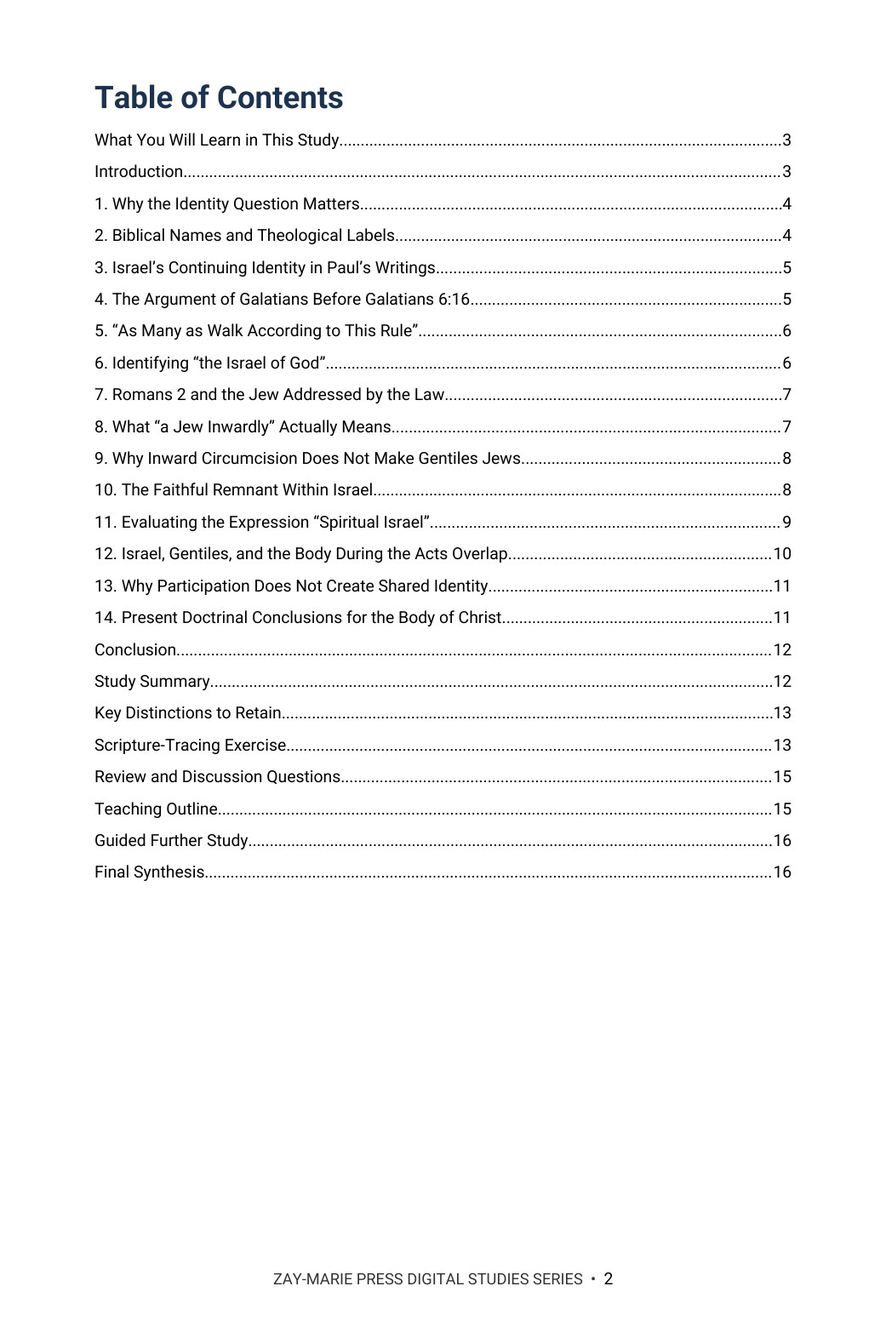
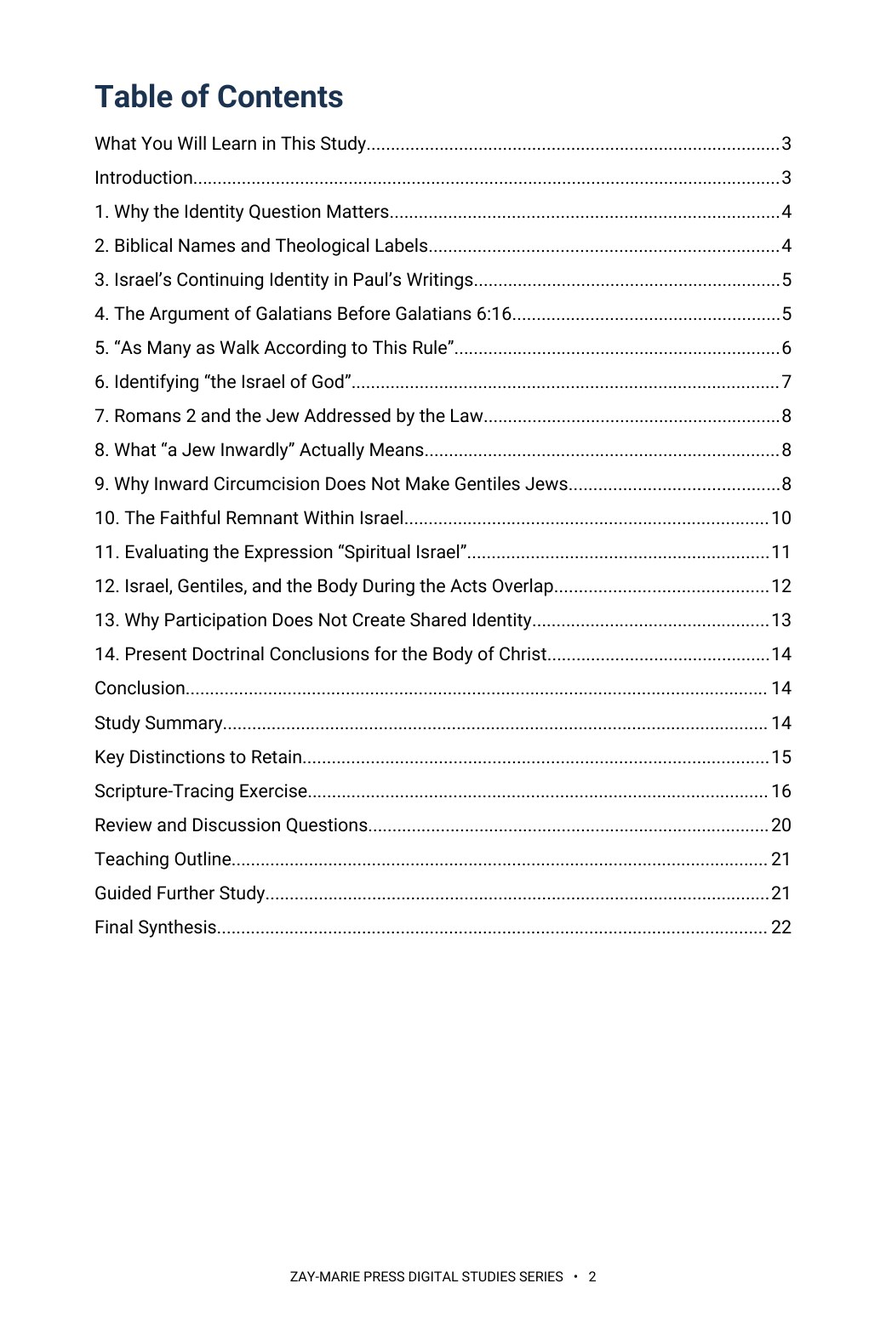
Study 35: page count 22, rebuilt preview pages and trackers for Roboto 10 pt build on current page
Claude-Session: https://claude.ai/code/session_01HC7bs9KYP2scp4hCL6DkTp

Changed region(s): [[0.0922, 0.0615, 0.6455, 0.7068], [0.8607, 0.0922, 0.8915, 0.7068], [0.3074, 0.9526, 0.6455, 0.9834]]

diff --git a/study-35-who-is-the-israel-of-god.html b/study-35-who-is-the-israel-of-god.html
@@ -2,12 +2,12 @@
 <html lang="en"><head><meta charset="utf-8"><meta name="viewport" content="width=device-width,initial-scale=1"><title>Who Is the Israel of God? | Zay-Marie Press</title><meta name="description" content="Examine Galatians 6:16, Romans 2:28–29, and the expression spiritual Israel while preserving the biblical distinctions among Israel, Gentiles, the remnant, and the Body of Christ."><link rel="stylesheet" href="styles.css?v=20260921-4"><link rel="icon" type="image/png" href="assets/zay-marie-press-favicon.png"><style>
 .study-detail-page{background:#fff;color:#252525}.detail-hero{background:linear-gradient(135deg,#f8f5ec,#e3ece2);padding:58px 0}.detail-hero-grid{display:grid;grid-template-columns:minmax(250px,.72fr) minmax(0,1.28fr);gap:58px;align-items:center}.detail-cover{max-width:390px;margin:auto}.detail-cover img{display:block;width:100%;height:auto;box-shadow:0 14px 36px rgba(8,45,69,.18)}.detail-hero h1{font-size:clamp(2.7rem,5vw,4.7rem);line-height:1.02;margin:8px 0 10px;color:#143823}.detail-subtitle{font-family:Georgia,serif;font-size:1.35rem;font-weight:700;color:#082d45;margin:0 0 7px}.detail-kicker{font-family:Georgia,serif;font-style:italic;font-size:1.05rem;color:#4a4a44;margin:0 0 22px}.detail-copy{font-size:1.08rem;line-height:1.65;max-width:760px}.detail-buyline{display:flex;align-items:center;gap:18px;flex-wrap:wrap;margin-top:25px}.detail-price{font-family:Georgia,serif;font-size:2rem;font-weight:700;color:#143823}.detail-format,.preview-card .page-no{font-family:Arial,sans-serif;font-size:.76rem;font-weight:700;letter-spacing:.1em;text-transform:uppercase;color:#176b3a}.detail-button{display:inline-block;background:#176b3a;color:#fff;padding:13px 22px;font-family:Arial,sans-serif;font-size:.8rem;font-weight:700;letter-spacing:.07em;text-transform:uppercase}.detail-button.pending{opacity:.72;cursor:default}.detail-section{padding:66px 0}.detail-section.soft{background:#f6f7f2}.detail-section.cream{background:#faf8f2}.detail-section h2{color:#143823;margin:6px 0 18px;font-size:clamp(2rem,3.4vw,3rem)}.detail-section .lead{max-width:920px;font-size:1.1rem;line-height:1.62}.study-distinction{max-width:920px;margin-top:28px;margin-bottom:28px;padding:26px 28px;background:#fff;border:1px solid #d8d1bf;border-left:4px solid #b8871c}.study-distinction h3{margin:0 0 10px;color:#143823}.study-distinction p{margin:0 0 14px;line-height:1.62}.study-distinction a{font-family:Arial,sans-serif;font-weight:700;color:#176b3a;text-decoration:none}.study-points{display:grid;grid-template-columns:repeat(3,1fr);gap:18px;margin-top:28px;margin-bottom:28px}.study-point,.scripture-card,.preview-card,.include-item{background:#fff;border:1px solid var(--line);text-align:left}.study-point{border-top:3px solid #176b3a;padding:22px}.study-point h3{color:#143823;margin:0 0 8px;font-size:1.2rem}.study-point p,.scripture-card p,.preview-card p,.include-item p{margin:0;line-height:1.55}.scripture-grid{display:grid;grid-template-columns:repeat(4,1fr);gap:14px;margin-top:24px;margin-bottom:24px}.scripture-card{padding:22px 20px;color:#143823}.scripture-card h3{margin:0 0 9px;font-family:Georgia,serif;font-size:1rem;line-height:1.35}.scripture-card p{font-size:.94rem;color:#45453f}.excerpt{max-width:900px;margin:28px auto;border-left:4px solid #b8871c;padding:10px 0 10px 28px}.excerpt blockquote{font-family:Georgia,serif;font-size:clamp(1.45rem,2.5vw,2rem);line-height:1.45;color:#143823;margin:0 0 16px}.excerpt p{line-height:1.6;margin:0}.preview-grid{display:grid;grid-template-columns:repeat(2,1fr);gap:20px;margin-top:28px;margin-bottom:28px}.preview-card{padding:18px;min-height:210px;box-shadow:0 7px 20px rgba(20,40,25,.05)}.preview-image-link{display:block;margin:0 0 18px}.preview-image-link img{display:block;width:100%;height:auto;border:1px solid #d8d1bf;box-shadow:0 8px 22px rgba(20,40,25,.1);transition:transform .18s ease,box-shadow .18s ease}.preview-image-link:hover img{transform:translateY(-2px);box-shadow:0 11px 28px rgba(20,40,25,.16)}.preview-card h3{color:#143823;margin:8px 0 10px}.preview-instruction{margin:10px 0 0;font-family:Arial,sans-serif;font-size:.78rem;letter-spacing:.04em;color:#5b5b55}.includes-grid{display:grid;grid-template-columns:repeat(4,1fr);gap:14px;margin-top:26px}.include-item{padding:22px 20px;color:#143823}.include-item h3{margin:0 0 9px;font-family:Arial,sans-serif;font-size:.86rem;line-height:1.35;letter-spacing:.02em}.include-item p{font-size:.94rem;color:#45453f}.final-buy{background:#082d45;color:#fff;border-top:4px solid #b8871c;padding:42px 48px;display:grid;grid-template-columns:1fr auto;gap:36px;align-items:center}.final-buy .eyebrow,.final-buy h2,.final-buy .detail-price{color:#fff}.final-buy h2{margin:7px 0 6px}.final-buy p{margin:0}.final-offer{text-align:center}.back-link{display:inline-block;margin-top:18px;color:#143823;font-family:Arial,sans-serif;font-weight:700;text-decoration:none}.preview-lightbox{position:fixed;inset:0;z-index:10000;display:none;align-items:flex-start;justify-content:center;background:rgba(8,22,16,.88);padding:24px;overflow:auto}.preview-lightbox.open{display:flex}.preview-lightbox img{display:block;width:auto;height:auto;max-width:none;box-shadow:0 18px 55px rgba(0,0,0,.4);background:#fff}.preview-lightbox-close{position:fixed;top:18px;right:24px;z-index:10001;width:46px;height:46px;border:1px solid rgba(255,255,255,.65);border-radius:50%;background:rgba(0,0,0,.55);color:#fff;font:32px/1 Arial,sans-serif;cursor:pointer}@media(max-width:900px){.detail-hero-grid{grid-template-columns:1fr;gap:34px}.detail-cover{max-width:330px}.study-points{grid-template-columns:repeat(2,1fr)}.scripture-grid,.includes-grid{grid-template-columns:repeat(2,1fr)}.preview-grid,.final-buy{grid-template-columns:1fr}.final-offer{text-align:left}}@media(max-width:560px){.detail-hero{padding:42px 0}.detail-section{padding:50px 0}.study-points,.scripture-grid,.includes-grid{grid-template-columns:1fr}.final-buy{padding:32px 24px}.detail-buyline{align-items:flex-start;flex-direction:column;gap:8px}.preview-lightbox{padding:58px 10px 24px}.preview-lightbox img{width:100%;max-width:100%;height:auto}}</style></head><body class="study-detail-page">
 <header class="site-header"><div class="wrap nav"><a class="logo" href="index.html" aria-label="Zay-Marie Press home"><img src="assets/zay-marie-press-logo-hq.png" alt="Zay-Marie Press" width="420" height="238"></a><button class="menu-toggle" type="button" aria-expanded="false" aria-controls="primary-nav">MENU</button><nav aria-label="Primary navigation" class="primary-nav" id="primary-nav"><a href="index.html">HOME</a><a href="books.html">BOOKS</a><a href="series.html">SERIES</a><a class="active" aria-current="page" href="digital-studies.html">DIGITAL STUDIES</a><a href="biblical-hermeneutics-course.html">COURSE</a><a href="about.html">ABOUT</a><a href="resources.html">RESOURCES</a><a href="contact.html">CONTACT</a></nav></div></header><main>
-<section class="detail-hero"><div class="wrap detail-hero-grid"><div class="detail-cover"><picture><source srcset="assets/study-35-cover.webp" type="image/webp"><img src="assets/study-35-cover.jpg" alt="Who Is the Israel of God? cover"></picture></div><div><div class="eyebrow">STUDY 35 · DIGITAL STUDY</div><h1>Who Is the Israel of God?</h1><p class="detail-subtitle">Spiritual Israel, the Jew Inwardly, and the Boundaries of Biblical Identity</p><p class="detail-kicker">A focused examination of Galatians 6:16, Romans 2:28–29, and the categories Paul continues to distinguish</p><p class="detail-copy">Do “the Israel of God,” “a Jew inwardly,” and the theological label “spiritual Israel” identify the Body of Christ as Israel? These expressions are often treated as interchangeable even though only the first two appear in Scripture and arise in different arguments.</p><p class="detail-copy">This study follows the grammar, recipients, context, and programmatic setting of the principal proof texts. It distinguishes Israel, Gentile participation in Israel’s blessing, and the Body of Christ, without transferring Israel’s corporate identity or prophetic promises.</p><div class="detail-buyline"><span class="detail-price">$5.99</span><span class="detail-format">Digital PDF · 16 Pages</span><span class="detail-button pending" aria-disabled="true">Checkout Coming Soon</span></div></div></div></section>
+<section class="detail-hero"><div class="wrap detail-hero-grid"><div class="detail-cover"><picture><source srcset="assets/study-35-cover.webp" type="image/webp"><img src="assets/study-35-cover.jpg" alt="Who Is the Israel of God? cover"></picture></div><div><div class="eyebrow">STUDY 35 · DIGITAL STUDY</div><h1>Who Is the Israel of God?</h1><p class="detail-subtitle">Spiritual Israel, the Jew Inwardly, and the Boundaries of Biblical Identity</p><p class="detail-kicker">A focused examination of Galatians 6:16, Romans 2:28–29, and the categories Paul continues to distinguish</p><p class="detail-copy">Do “the Israel of God,” “a Jew inwardly,” and the theological label “spiritual Israel” identify the Body of Christ as Israel? These expressions are often treated as interchangeable even though only the first two appear in Scripture and arise in different arguments.</p><p class="detail-copy">This study follows the grammar, recipients, context, and programmatic setting of the principal proof texts. It distinguishes Israel, Gentile participation in Israel’s blessing, and the Body of Christ, without transferring Israel’s corporate identity or prophetic promises.</p><div class="detail-buyline"><span class="detail-price">$5.99</span><span class="detail-format">Digital PDF · 22 Pages</span><span class="detail-button pending" aria-disabled="true">Checkout Coming Soon</span></div></div></div></section>
 <section class="detail-section"><div class="wrap"><div class="eyebrow">ABOUT THIS STUDY</div><h2>Participation Does Not Establish Shared Identity</h2><p class="lead">Paul recognizes Israel, Gentiles, and the Body of Christ without making those categories interchangeable. Faith and inward spiritual reality matter profoundly, but neither ethnic descent alone nor participation in grace settles the corporate identity question.</p><p class="lead">The study therefore examines each expression separately. Galatians 6:16 must be read within Galatians; Romans 2:28–29 within Paul’s address to the Jew and the law; and “spiritual Israel” as a later theological label that must be tested rather than treated as inspired terminology.</p><p class="lead">This is not a study of the broad Israel–Body distinction itself, which Study 4 establishes across every point of contrast, nor of Paul’s threefold categories in 1 Corinthians 10:32, which Study 36 works out on its own terms, nor of Paul’s uses of Abraham’s seed, which Study 40 traces across Romans and Galatians. Its task is narrower: to test each disputed identity expression — Galatians 6:16, Romans 2:28–29, “spiritual Israel” — within its own passage, rather than letting one debated phrase govern how the others are read.</p><div class="study-distinction"><h3>How These Studies Relate</h3><p>Study 35 tests the expressions ‘Israel of God’ and ‘a Jew inwardly’ and the later label ‘spiritual Israel’ in context.</p><p><a href="study-04-israel-and-the-body-of-christ.html">Study 4 — Israel and the Body of Christ</a> Use the broader Israel and Body distinction to evaluate whether a disputed expression actually changes either group’s corporate identity.</p><p><a href="study-36-jews-gentiles-and-the-church-of-god.html">Study 36 — Jews, Gentiles, and the Church of God</a> Examine Paul’s categories in 1 Corinthians 10:32; they give a separate check on whether Jewish origin, Gentile origin, and Church membership are being conflated.</p><p><a href="study-40-who-is-abrahams-seed.html">Study 40 — Who Is Abraham’s Seed?</a> Test whether faith in Christ makes someone Israelite; Paul’s seed language helps answer an identity inference often brought to Galatians 6:16.</p><p class="connection-guide-link"><a href="study-connections.html#study-35">Explore the full connection guide for Study 35 →</a></p></div></div></section>
 <section class="detail-section soft"><div class="wrap"><div class="eyebrow">WHAT YOU’LL STUDY</div><h2>Test Every Identity Claim in Its Own Context</h2><div class="study-points"><div class="study-point"><h3>Biblical Names</h3><p>Separate Scripture’s own expressions from later theological labels that can quietly assume the conclusion.</p></div><div class="study-point"><h3>The Galatian Argument</h3><p>Trace circumcision, new creation, apostolic spheres, and the rule governing Galatians 6:15–16.</p></div><div class="study-point"><h3>The Israel of God</h3><p>Evaluate the grammar and context without presuming that Paul renamed the Body as Israel.</p></div><div class="study-point"><h3>A Jew Inwardly</h3><p>Read Romans 2 within Paul’s direct address to the Jew, then use Romans 3:1 as the immediate control.</p></div><div class="study-point"><h3>The Faithful Remnant</h3><p>Trace Paul’s own place in Romans 11:1–5 and the believing company the passage names, and test whether a remnant and the Body share identity, membership, or destiny.</p></div><div class="study-point"><h3>Identity and Blessing</h3><p>Distinguish the olive tree’s picture of Gentile participation from any transfer of covenant, corporate identity, or program membership.</p></div></div></div></section>
 <section class="detail-section cream"><div class="wrap"><div class="eyebrow">KEY SCRIPTURES</div><h2>Follow Paul’s Categories Across the Argument</h2><div class="scripture-grid"><div class="scripture-card"><h3>Galatians 2:7–9</h3><p>Two distinct apostolic lines and entrusted spheres operating concurrently.</p></div><div class="scripture-card"><h3>Galatians 3:26–29</h3><p>Equal standing in Christ without erasing every ethnic or programmatic distinction.</p></div><div class="scripture-card"><h3>Galatians 6:15–16</h3><p>New creation, the governing rule, and “the Israel of God.”</p></div><div class="scripture-card"><h3>Romans 2:17–29; 3:1</h3><p>The Jew, the law, circumcision, inward reality, and Paul’s immediate control.</p></div><div class="scripture-card"><h3>Romans 9:1–8, 27</h3><p>Israel according to promise and the remnant within the nation.</p></div><div class="scripture-card"><h3>Romans 11:1–7</h3><p>Paul’s descent as an Israelite and the remnant according to the election of grace.</p></div><div class="scripture-card"><h3>Romans 11:11–29</h3><p>The olive tree: participation without identity transfer.</p></div><div class="scripture-card"><h3>Ephesians 2:11–18</h3><p>One new man and one Body—not an enlarged or renamed Israel.</p></div></div></div></section>
 <section class="detail-section"><div class="wrap"><div class="eyebrow">FROM THE STUDY</div><h2>A Label Cannot Create an Identity</h2><div class="excerpt"><blockquote>“Galatians 6:16, Romans 2:28–29, and the label ‘spiritual Israel’ do not establish that the Body of Christ has become Israel.”</blockquote><p>Paul’s named recipients, immediate arguments, and continuing distinctions control the conclusion—not a theological label imposed on the passages.</p></div></div></section>
 <section class="detail-section soft"><div class="wrap"><div class="eyebrow">A LOOK INSIDE</div><h2>Preview the Study Before You Purchase</h2><p class="preview-instruction">Click any page to enlarge it for reading.</p><div class="preview-grid"><div class="preview-card"><a class="preview-image-link" data-preview-lightbox href="assets/study-35-page-2.jpg"><img src="assets/study-35-page-2.jpg" alt="Study 35 page 2 table of contents"></a><div class="page-no">Page 2</div><h3>Table of Contents</h3><p>See the study’s full structure and scope at a glance.</p></div><div class="preview-card"><a class="preview-image-link" data-preview-lightbox href="assets/study-35-page-3.jpg"><img src="assets/study-35-page-3.jpg" alt="Study 35 page 3 learning outcomes, Study Goal, and Study Outline"></a><div class="page-no">Page 3</div><h3>Learning Outcomes and Study Goal</h3><p>Begin with the identity distinctions, interpretive controls, and questions that govern the study.</p></div><div class="preview-card"><a class="preview-image-link" data-preview-lightbox href="assets/study-35-page-5.jpg"><img src="assets/study-35-page-5.jpg" alt="Study 35 interior preview — page 5, Paul’s names for Israel and the argument of Galatians"></a><div class="page-no">Page 5</div><h3>Paul’s Names and the Galatian Argument</h3><p>See how Paul’s own expressions for Israel, the Jew, and the Gentiles are set beside the argument of Galatians.</p></div></div></div></section>
-<section class="detail-section"><div class="wrap"><div class="eyebrow">WHAT’S INCLUDED</div><h2>A Focused Study Built for<br>Doctrinal Precision and Responsible Application</h2><div class="includes-grid"><div class="include-item"><h3>16-Page Biblical Study</h3><p>A substantive examination of the proof texts commonly used to identify the Body as Israel.</p></div><div class="include-item"><h3>Fourteen Teaching Sections</h3><p>Move from biblical terminology through Galatians, Romans, the remnant, and present doctrine.</p></div><div class="include-item"><h3>Contextual Exegesis</h3><p>Examine grammar, recipients, argument, programmatic setting, and Paul’s established usage.</p></div><div class="include-item"><h3>High-Contrast Tables</h3><p>Compare identities, claims, contextual results, and distinctions without category confusion.</p></div><div class="include-item"><h3>Scripture-Tracing Exercise</h3><p>Trace Israel, inward circumcision, the remnant, Gentile participation, and the Body’s identity.</p></div><div class="include-item"><h3>Review Questions</h3><p>Test the difference between equal standing, participation in blessing, inward reality, and corporate identity.</p></div><div class="include-item"><h3>Teaching Outline</h3><p>Use a ready framework for teaching the principal passages in their proper order and context.</p></div><div class="include-item"><h3>Guided Further Study</h3><p>Grouped passages support deeper work in Galatians, Romans, prophecy, and Pauline doctrine.</p></div></div></div></section>
-<section class="detail-section cream"><div class="wrap"><div class="final-buy"><div><div class="eyebrow">STUDY 35 · DIGITAL STUDY</div><h2>Who Is the Israel of God?</h2><p>Digital PDF · 16 Pages · For personal use</p></div><div class="final-offer"><div class="detail-price">$5.99</div><span class="detail-button pending" aria-disabled="true">Checkout Coming Soon</span></div></div><a class="back-link" href="digital-studies.html">← Back to All Digital Studies</a></div></section><section class="study-method-course-bridge"><div class="wrap"><div class="study-method-course-panel"><div><div class="eyebrow">BUILD THE INTERPRETIVE METHOD</div><h2>Want More Than a Focused Study?</h2><p>Digital Studies examine particular biblical subjects and difficult passages. The 40-lesson Biblical Hermeneutics course teaches a complete, repeatable method for establishing meaning in context, determining proper assignment, and making responsible application.</p></div><a class="btn btn-primary" href="biblical-hermeneutics-course.html">BIBLICAL HERMENEUTICS COURSE</a></div></div></section></main>
+<section class="detail-section"><div class="wrap"><div class="eyebrow">WHAT’S INCLUDED</div><h2>A Focused Study Built for<br>Doctrinal Precision and Responsible Application</h2><div class="includes-grid"><div class="include-item"><h3>22-Page Biblical Study</h3><p>A substantive examination of the proof texts commonly used to identify the Body as Israel.</p></div><div class="include-item"><h3>Fourteen Teaching Sections</h3><p>Move from biblical terminology through Galatians, Romans, the remnant, and present doctrine.</p></div><div class="include-item"><h3>Contextual Exegesis</h3><p>Examine grammar, recipients, argument, programmatic setting, and Paul’s established usage.</p></div><div class="include-item"><h3>High-Contrast Tables</h3><p>Compare identities, claims, contextual results, and distinctions without category confusion.</p></div><div class="include-item"><h3>Scripture-Tracing Exercise</h3><p>Trace Israel, inward circumcision, the remnant, Gentile participation, and the Body’s identity.</p></div><div class="include-item"><h3>Review Questions</h3><p>Test the difference between equal standing, participation in blessing, inward reality, and corporate identity.</p></div><div class="include-item"><h3>Teaching Outline</h3><p>Use a ready framework for teaching the principal passages in their proper order and context.</p></div><div class="include-item"><h3>Guided Further Study</h3><p>Grouped passages support deeper work in Galatians, Romans, prophecy, and Pauline doctrine.</p></div></div></div></section>
+<section class="detail-section cream"><div class="wrap"><div class="final-buy"><div><div class="eyebrow">STUDY 35 · DIGITAL STUDY</div><h2>Who Is the Israel of God?</h2><p>Digital PDF · 22 Pages · For personal use</p></div><div class="final-offer"><div class="detail-price">$5.99</div><span class="detail-button pending" aria-disabled="true">Checkout Coming Soon</span></div></div><a class="back-link" href="digital-studies.html">← Back to All Digital Studies</a></div></section><section class="study-method-course-bridge"><div class="wrap"><div class="study-method-course-panel"><div><div class="eyebrow">BUILD THE INTERPRETIVE METHOD</div><h2>Want More Than a Focused Study?</h2><p>Digital Studies examine particular biblical subjects and difficult passages. The 40-lesson Biblical Hermeneutics course teaches a complete, repeatable method for establishing meaning in context, determining proper assignment, and making responsible application.</p></div><a class="btn btn-primary" href="biblical-hermeneutics-course.html">BIBLICAL HERMENEUTICS COURSE</a></div></div></section></main>
 <div class="preview-lightbox" id="preview-lightbox" role="dialog" aria-modal="true" aria-label="Expanded study preview"><button class="preview-lightbox-close" type="button" aria-label="Close preview">×</button><img id="preview-lightbox-image" alt=""></div><footer class="site-footer"><div class="wrap footer-grid"><div class="footer-about"><h3>Zay-Marie Press</h3><p class="footer-tagline"><em>Where the Bible Means What It Says.</em></p><p>Zay-Marie Press is a Christian theological publisher dedicated to producing doctrinally precise, carefully structured biblical resources that equip pastors, teachers, and serious students with clarity, depth, and Scripture-anchored truth.</p><p><a href="https://zaymariepress.com">zaymariepress.com</a><br><a href="mailto:info@zaymariepress.com">info@zaymariepress.com</a></p></div><div class="footer-column"><h3>Explore</h3><div class="footer-links-stacked"><a href="books.html">Books</a><br><a href="series.html">Series</a><br><a href="biblical-hermeneutics-course.html">Course</a><br><a href="digital-studies.html">Digital Studies</a><br><a href="resources.html">Resources</a><br><a href="bible-book-summaries.html">Bible Book Summaries</a><br><a href="doctrinal-packets.html">Doctrinal Packets</a><br><a href="historical-drift.html">Historical Drift</a><br><a href="about.html">About</a><br><a href="contact.html">Contact</a></div></div><div class="footer-column"><h3>Reader Support</h3><div class="footer-links-stacked"><a href="reader-support.html#faq">FAQ</a><br><a href="reader-support.html#shipping-returns">Shipping &amp; Returns</a><br><a href="reader-support.html#digital-downloads">Digital Downloads</a><br><a href="reader-support.html#contact-support">Contact Support</a></div></div><div class="footer-column"><h3>Acts Overlap</h3><p><strong>Acts Overlap Theology Series</strong></p><p><em>Two Distinct Streams. One Overlap.</em></p><p><a href="series.html">Series Overview</a></p></div></div><div class="wrap footer-bottom">© 2026 Zay-Marie Press. All rights reserved.</div></footer><script src="site.js"></script><script>const lightbox=document.getElementById('preview-lightbox'),lightboxImage=document.getElementById('preview-lightbox-image'),closeLightbox=()=>{lightbox.classList.remove('open');lightboxImage.src='';};document.querySelectorAll('[data-preview-lightbox]').forEach(link=>link.addEventListener('click',event=>{event.preventDefault();lightboxImage.src=link.href;lightboxImage.alt=link.querySelector('img').alt;lightbox.classList.add('open');}));document.querySelector('.preview-lightbox-close').addEventListener('click',closeLightbox);lightbox.addEventListener('click',event=>{if(event.target===lightbox)closeLightbox();});document.addEventListener('keydown',event=>{if(event.key==='Escape')closeLightbox();});</script></body></html>

diff --git a/site.js b/site.js
@@ -62,7 +62,7 @@ const resourceModal=document.querySelector('#resource-modal'), resourceModalTitl
 if(resourceModal&&resourceModalTriggers.length){const closeResourceModal=()=>{resourceModal.hidden=true;document.body.classList.remove('resource-modal-open');lastResourceTrigger?.focus();};resourceModalTriggers.forEach(trigger=>trigger.addEventListener('click',()=>{lastResourceTrigger=trigger;if(resourceModalTitle)resourceModalTitle.textContent=trigger.dataset.title||'Resource';if(resourceModalDescription)resourceModalDescription.textContent=trigger.dataset.description||'';if(resourceModalLink){resourceModalLink.href=trigger.dataset.href||'#';resourceModalLink.textContent=trigger.dataset.linkText||'OPEN RESOURCE';}resourceModal.hidden=false;document.body.classList.add('resource-modal-open');resourceModalClose?.focus();}));resourceModalClose?.addEventListener('click',closeResourceModal);resourceModal.addEventListener('click',e=>{if(e.target===resourceModal)closeResourceModal();});document.addEventListener('keydown',e=>{if(e.key==='Escape'&&!resourceModal.hidden)closeResourceModal();});}
 
 /* Display the verified final-PDF page count at the primary purchase decision point. */
-const digitalStudyPageCounts={1:17,2:19,3:16,4:17,5:15,6:15,7:14,8:13,9:15,10:20,11:15,12:15,13:18,14:15,15:15,16:16,17:17,18:18,19:16,20:15,21:16,22:15,23:14,24:16,25:17,26:16,27:16,28:17,29:19,30:18,31:18,32:19,33:18,34:20,35:16,36:16,37:16,38:16,39:16,40:16,41:16,42:17,43:17,44:19,45:19,46:20,47:19,48:18,49:20,50:19,51:20,52:19,53:19,54:17,55:20,56:20,57:20,58:19,59:20,60:15,61:16,62:18,63:17,64:17,65:16,66:16,67:17,68:16,69:17,70:17,71:16};
+const digitalStudyPageCounts={1:17,2:19,3:16,4:17,5:15,6:15,7:14,8:13,9:15,10:20,11:15,12:15,13:18,14:15,15:15,16:16,17:17,18:18,19:16,20:15,21:16,22:15,23:14,24:16,25:17,26:16,27:16,28:17,29:19,30:18,31:18,32:19,33:18,34:20,35:22,36:16,37:16,38:16,39:16,40:16,41:16,42:17,43:17,44:19,45:19,46:20,47:19,48:18,49:20,50:19,51:20,52:19,53:19,54:17,55:20,56:20,57:20,58:19,59:20,60:15,61:16,62:18,63:17,64:17,65:16,66:16,67:17,68:16,69:17,70:17,71:16};
 const digitalStudyMatch=window.location.pathname.match(/\/study-(\d+)-/i);
 const digitalStudyFormat=document.querySelector('.detail-hero .detail-format');
 if(digitalStudyMatch&&digitalStudyFormat){const studyNumber=Number(digitalStudyMatch[1]),pageCount=digitalStudyPageCounts[studyNumber];if(pageCount)digitalStudyFormat.textContent=`Digital PDF · ${pageCount} Pages`;}

diff --git a/CLAUDE.md b/CLAUDE.md
@@ -23,7 +23,7 @@ These are kept in the repo at `controlling-documents/` and are the current versi
 - As of v1.50 (publisher directive, 2026-10-03), the **What You Will Learn in This Study** section is always bulleted, never set as running paragraphs, written into this file in the same pass (Master Standard Section 3 item 4, Section 6 structure line, Section 22): a list of bullet points, each describing one process, textual marker or interpretive discipline the reader will practice (Section 17 still governs what they may say); at most one short lead-in line may stand above the bullets (for example, “By the end of this study, you should be able to:”); the Study Goal callout and the Study Outline keep their own forms. It governs every new study and every study rebuilt or retrofitted from now on; earlier studies take it when reopened or when the publisher directs. In every study check (Step 1), report whether the section is bulleted. First applied to Study 43.
 **`controlling-documents/Digital_Studies_Relationship_Map_v1.39.md`** — records each study's distinct subject, its related studies, the eight priced six-study collections, the Paul's Missionary Journeys cross-reference map, and the five primary catalog categories (currently version 1.39, covers Studies 1–71; update it as new studies publish, bump the version number, rename the file to match, and log the change in its own version-history table — mirroring the Master Standard's `_vX.Y` filename convention). Check a proposed topic against it before recommending or writing a new study. (2026-09-28: the file was missing from this repo despite this note referencing it; replaced from the publisher's copy and bumped v1.15→v1.25 in the same pass. If this note ever again points to a version not present under `controlling-documents/`, ask the publisher for a copy rather than proceeding without the check.)
 - **`controlling-documents/Digital_Studies_Category_Standard_v1.1.md`** — FINAL and binding (publisher, 2026-10-01): the rules for the five primary catalog categories (Foundations, Israel & Prophecy, Body of Christ, Passages, Doctrinal Themes), the ordered decision procedure for new studies, the precedents, all 71 fixed assignments, and the cover-label form for each category. Read it before placing any card or cover label. Do not ask the publisher where a study belongs; apply the procedure and state the result. Only the publisher changes a ruling; then bump this Standard's version and filename, re-letter the cover, and update the Relationship Map.
-- **`controlling-documents/Doctrinal_Upgrade_Retrofit_Plan_v1.113.md`** — working tracker for retrofitting Studies 1–59 to the 2026-10-02 doctrinal upgrade (Framework/PAM v1.1, Master Standard v1.40, Rules 7–17): withdrawn-wording search keys, impact tiers, waves and the per-study method. Read it before continuing the retrofit in any session; update status, bump the version and rename the file as work proceeds.
+- **`controlling-documents/Doctrinal_Upgrade_Retrofit_Plan_v1.114.md`** — working tracker for retrofitting Studies 1–59 to the 2026-10-02 doctrinal upgrade (Framework/PAM v1.1, Master Standard v1.40, Rules 7–17): withdrawn-wording search keys, impact tiers, waves and the per-study method. Read it before continuing the retrofit in any session; update status, bump the version and rename the file as work proceeds.
 - **`controlling-documents/Doctrinal_Packet_Standard_v0.3.md`** — Doctrinal Packet Standard (DRAFT; §7 approved). Governs the separate Doctrinal Packets product strand (5-page interpretive PDFs per Bible book — a print-friendly cover as page 1 plus 4 content pages, $2.99, KJV, pilot: Genesis, live at `packet-genesis.html`, hub `doctrinal-packets.html`; site pages say "5 Pages", cover styles live in `packets.css`, Old Testament blue and New Testament soft pale green, hub listed in Bible order). **Preview rule (publisher directive, 2026-09-29, packets only):** previews show about one page's worth in two cropped views (top of page 1 through the anchor texts; the chart section) — never the exegesis, architecture, Mystery contrast, logic chain, outline, or closing. Master Standard §16/§17 still govern Digital Studies. Bump the version and rename the file as the Standard is finalized.
 - **`controlling-documents/Preview_Page_Spoiler_Retrofit_Audit_v1.4.md`** — working tracker for the Studies 1–60 preview-page conclusion-spoiler retrofit (see the section below). Read it before continuing that audit in any session; update its status fields and changelog, bump the version, and rename the file to match as the audit proceeds — same `_vX.Y` convention as the other controlling documents. As of v1.1, the website-side half was DONE: all 60 studies' "What You'll Study" text was judged against the rule (methodology documented in the file) and 22 points across 11 studies were rewritten and pushed; an unrelated Study 22 content bug (Study 21's content had leaked into it) was also found and fixed. As of v1.2, the publisher supplied Studies 1–60's interior production PDFs and the interior-PDF half was also surveyed (read-only): 10 studies (37, 41, 45, 47, 48, 49, 51, 52, 53, 54) were found to have at least one interior "What You Will Learn" violation, 50 studies were confirmed compliant, and the orphaned `assets/study-45-sanctification-under-grace.docx` (removed from the repo per the publisher in v1.0) was confirmed word-for-word identical to Study 45's actual production interior PDF content. As of v1.3, the publisher supplied editable DOCX sources for all 10 violating studies; all 15 violating points were rewritten and approved, delivered as corrected final PDFs, and — along the way — a second defect was found and fixed (Studies 47 and 48's source DOCX still had an unintegrated cover placeholder despite both being long-published live with real covers; fixed by inserting the existing approved cover art). The website's "What You Will Learn" preview image (`study-NN-page-3.jpg`) was regenerated from the corrected content for all 10 studies and pushed to `main` (commit `cea1859`), verified against a fresh clone. **The website side of this audit is now fully compliant for all 60 studies.** Outstanding: the publisher's purchasable interior PDF files themselves have corrected versions delivered, but distribution to existing purchasers was decided by the publisher on 2026-09-29: silent swap of the files behind the existing downloads, no reissue notice (recorded in the v1.4 changelog entry; the product files are not in this repo).
 

diff --git a/controlling-documents/Doctrinal_Upgrade_Retrofit_Plan_v1.114.md b/controlling-documents/Doctrinal_Upgrade_Retrofit_Plan_v1.114.md
@@ -206,3 +206,4 @@ Working tracker for correcting published studies to the Framework/PAM v1.1, Mast
 - v1.111 (2026-10-04): Study 28 rebuilt in Roboto at 10 pt on the current page, 17 pages (was 16 on the old 432×648 page). WYWL lead-in standardized (ten bullets already process lines, kept); three 'Framework' references removed (Hebrews sentence now the reader-facing covenant sentence; 'which the Framework locates in the Mystery' now 'which belongs to the Mystery'); 'Acts Overlap framework' reworded; withdrawn 'finished work … only/sole ground' wording in the Introduction and section 14 replaced with Rule 19 wording (publisher-approved); overlap and Rule 17 sentences added in section 14; Teaching Outline numbered.
 - v1.112 (2026-10-04): Study 30 rebuilt in Roboto at 10 pt on the current page, 18 pages (was 17 on the old 432×648 page). WYWL lead-in standardized (seven bullets already process lines, kept); 'The controlling Framework…/the Framework's doctrinal position' reworded to study-owned wording; Acts 28 wording conformed (nationally suspended—not canceled, transferred or absorbed); overlap and Rule 17 sentences added; duplicated 1 Corinthians 3:8–15 paragraph removed; Teaching Outline numbered.
 - v1.113 (2026-10-04): Study 34 rebuilt in Roboto at 10 pt on the current page, 20 pages (was 16 on the old 432×648 page). WYWL intro paragraph above the lead-in removed (seven process bullets and the passage line kept); 'read as the Framework assigns them' (table cell) reworded to 'read in their own audience and setting'; overlap, Rule 17, Rule 11 and Rule 18 short-form sentences added in section 7; Acts 28 wording conformed with the suspension-boundary sentence; Teaching Outline numbered. Note: Step 1 grep had missed table cells; table cells are now included in the internal-term check. Preview 3 moved from page 5 to page 6 (the vocabulary table).
+- v1.114 (2026-10-04): Study 35 rebuilt in Roboto at 10 pt on the current page, 22 pages (was 16 in the published PDF). The supplied FINAL DOCX was already on the new page in Roboto at 9 pt with typed bullets and numbers: rebuilt with real bullets (WYWL, Study Outline), real numbering (Review questions; Teaching Outline, whose Roman numerals were removed); 'The Olive Tree Firewall governs the reading:' replaced by 'Four boundaries govern the reading:' and the Romans 11 triad plus 'Identity is fixed by divine program, not by metaphor.' added; Acts 28 wording conformed with the suspension-boundary sentence. Overlap, Rule 17, Gal 3 and Gal 6:16 wording already conformed. This closes the Romans 11 depth item for Study 35.

diff --git a/controlling-documents/Digital_Studies_PAM_Audit_v1.208.md b/controlling-documents/Digital_Studies_PAM_Audit_v1.208.md
@@ -437,3 +437,4 @@ Study 15 PDF not yet supplied. Typography: none of Studies 2, 3, 6, 8 is in EB G
 - v1.205 (2026-10-04): Study 28 rebuilt in Roboto at 10 pt on the current page, 17 pages; withdrawn finished-work shared-ground wording replaced with Rule 19; Framework wording removed; overlap and Rule 17 sentences added; Teaching Outline numbered (see Retrofit Plan v1.111).
 - v1.206 (2026-10-04): Study 30 rebuilt in Roboto at 10 pt on the current page, 18 pages; Framework wording removed; Acts 28 wording conformed; overlap and Rule 17 sentences added; duplicate paragraph removed; Teaching Outline numbered (see Retrofit Plan v1.112).
 - v1.207 (2026-10-04): Study 34 rebuilt in Roboto at 10 pt on the current page, 20 pages; Framework wording removed (table cell); overlap, Rule 17, Rule 11 and Rule 18 short-form sentences added; Acts 28 wording conformed; Teaching Outline numbered (see Retrofit Plan v1.113).
+- v1.208 (2026-10-04): Study 35 rebuilt in Roboto at 10 pt on the current page, 22 pages; internal 'Firewall' label removed; Romans 11 triad added; Acts 28 wording conformed; typed bullets and numbering made real (see Retrofit Plan v1.114).
